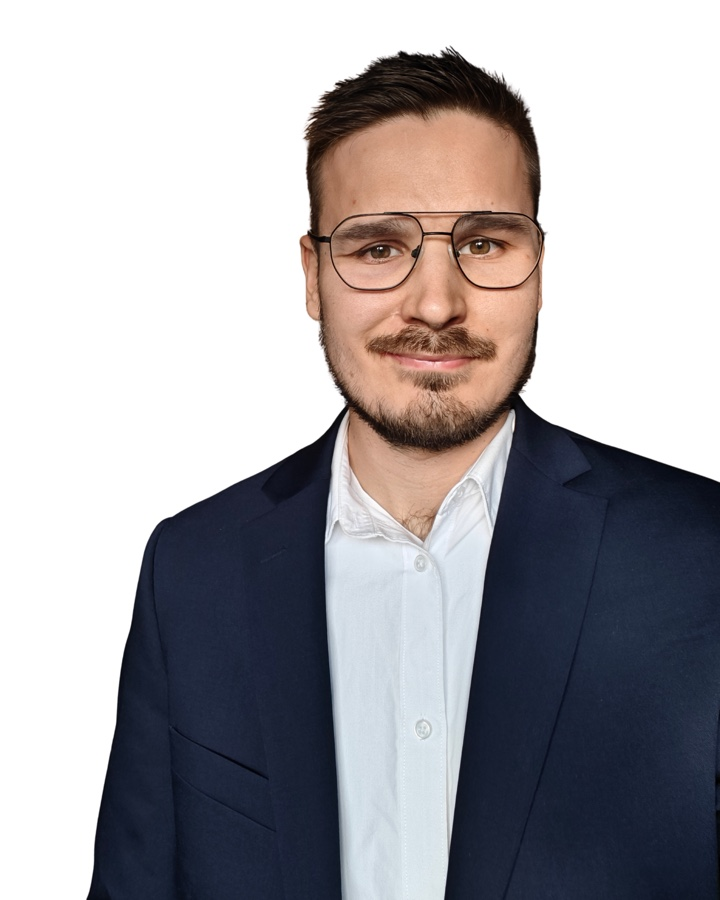
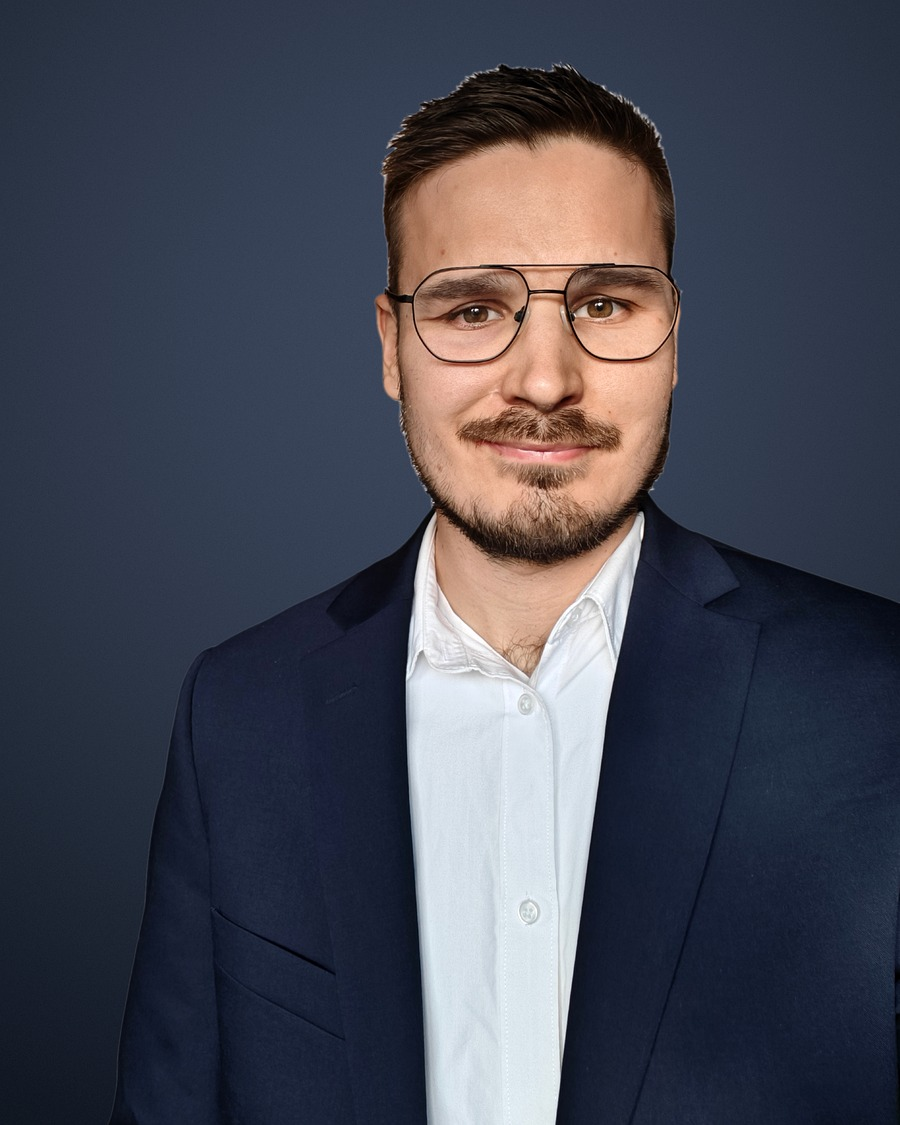
Studio-background headshot, GACHA dyno photo, wider gallery crop
Claude-Session: https://claude.ai/code/session_01RG75rPpDNUjRnTeRRF4sVW

diff --git a/index.html b/index.html
@@ -290,7 +290,7 @@
 
   .project-photos img {
     width: 50%;
-    height: 148px;
+    height: 220px;
     object-fit: cover;
     display: block;
     cursor: zoom-in;
@@ -560,9 +560,9 @@
         <p class="result">World&rsquo;s first electric, all-weather autonomous bus</p>
         <div class="project-photos">
           <img src="images/gacha-exterior.jpg" alt="GACHA autonomous shuttle driving past the Oodi library at its Helsinki premiere, watched by a crowd" loading="lazy">
-          <img src="images/gacha-interior.jpg" alt="GACHA shuttle interior, showing the rounded-square seating Aleksi designed" loading="lazy">
+          <img src="images/gacha-interior.jpg" alt="GACHA shuttle on a chassis dynamometer during system testing" loading="lazy">
         </div>
-        <p class="photo-credit">Photos: Justus Hirvi / Bonzu &amp; MUJI</p>
+        <p class="photo-credit">Exterior photo: Justus Hirvi / Bonzu &amp; MUJI</p>
         <p class="narrative">Design and test engineer on Sensible 4 and MUJI&rsquo;s flagship shuttle &mdash; interior design, prototype build, and system testing. Designed a small-series version of the vehicle toward UN&nbsp;ECE homologation technical requirements (design only, not produced). Operated in 10+ open-road test and pilot programs across Finland and Japan. Winner, Dubai World Challenge for Self-Driving Transport (2019); Finnish Engineering Award (2020). Now part of the permanent collection at Helsinki&rsquo;s Museum of Technology.</p>
         <p class="tags"><span>Vehicle design</span><span>prototype manufacturing</span><span>system testing</span><span>UN ECE homologation</span></p>
         <p class="links"><a href="https://designmuseum.org/exhibitions/beazley-designs-of-the-year/transport-2019/gacha-self-driving-shuttle-bus">Beazley Designs of the Year</a><span class="sep"> &middot; </span><a href="https://www.designboom.com/technology/muji-self-driving-bus-gacha-sensible-4-03-13-2019/">Designboom</a></p>
